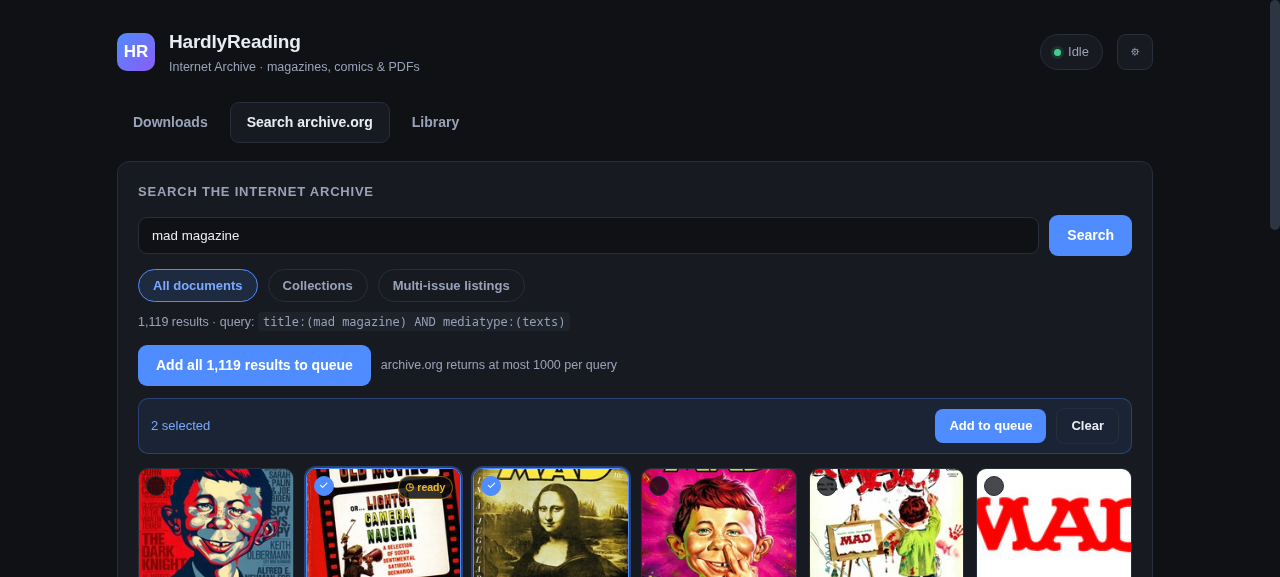
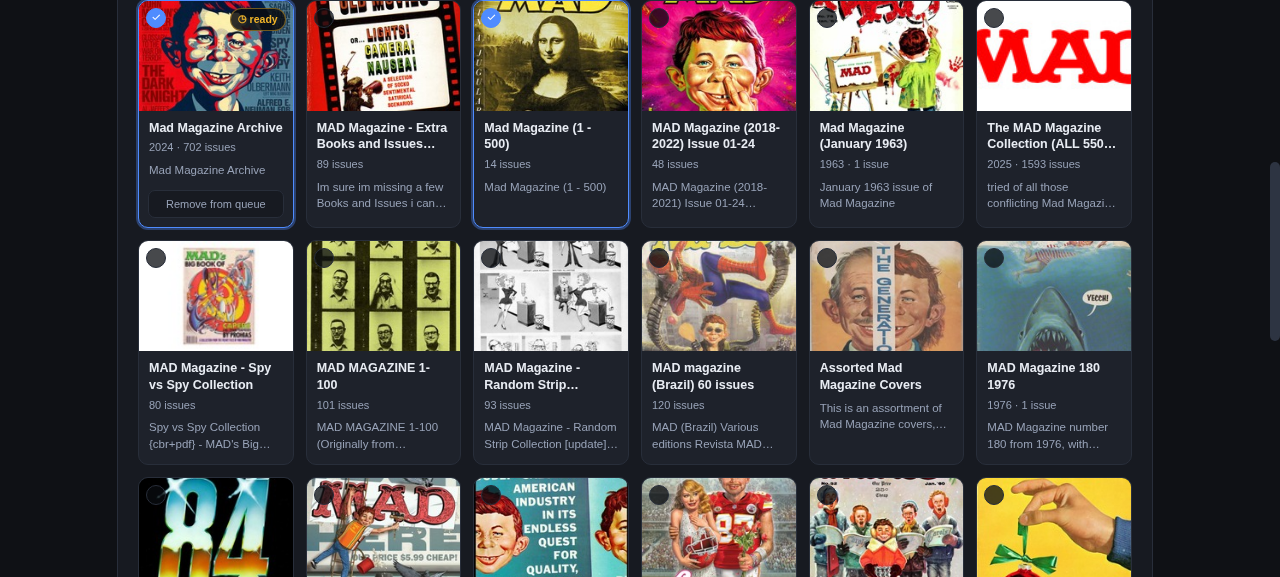
Readme covers paging and library rows; fresh screenshots (v2.0.0)

diff --git a/engine.py b/engine.py
@@ -125,7 +125,7 @@ def http_json(url: str, timeout: int = 60):
     """GET a URL and return parsed JSON. No retry here — callers that can
     recover (the resolver, the per-item probe) do their own attempts."""
 
-    req = urllib.request.Request(url, headers={"User-Agent": "HardlyReading/1.9.0"})
+    req = urllib.request.Request(url, headers={"User-Agent": "HardlyReading/2.0.0"})
     with urllib.request.urlopen(req, timeout=timeout) as r:
         return json.load(r)
 

diff --git a/server.py b/server.py
@@ -44,7 +44,7 @@ ENGINE = engine.Engine()
 
 
 class Handler(BaseHTTPRequestHandler):
-    server_version = "HardlyReading/1.9.0"
+    server_version = "HardlyReading/2.0.0"
 
     def log_message(self, fmt, *args):
         pass  # quiet

diff --git a/README.md b/README.md
@@ -174,7 +174,21 @@ What that does and does not buy you, plainly:
 - Install prompts need `https://` or `localhost`. On a plain-HTTP LAN address the
   page still works, it just will not offer to install.
 
-### The queue is a real queue: you control the order
+### The library also shows what you have not downloaded yet
+
+A title the queue knows about but which is not on disk still appears, marked
+`not downloaded`, with the action that moves it forward — **Download** for
+planned work, **Retry** for failed work — and a link to its page on archive.org
+where the built-in viewer can show it without downloading anything.
+
+Files caught mid-download are marked partial and refuse to open: a half-written
+archive is not a book. Rows with no file behind them cannot be selected for
+deletion, because there is nothing to delete.
+
+Library rows carry a real cover — page one, scaled to 96 px and cached — so the
+shelf looks like a shelf. PDFs get a placeholder rather than a rendered cover.
+
+## The queue is a real queue: you control the order
 
 Adding a link starts it straight away; when a job finishes the next one starts
 on its own, with a pause between jobs set by **Pause between jobs** in Settings
@@ -195,7 +209,23 @@ Library, tick the files you want gone, then **Delete** — it confirms with the
 list of filenames before touching disk. Press **Cancel** or **Done** to leave
 select mode without deleting anything.
 
-### The library reads the folder, not just the queue
+### Paging, covers and descriptions
+
+Every list pages at **10 / 25 / 50 / 100** per page, with prev/next and a
+jump-to-page list; the size you pick is remembered per tab. The queue and the
+library page locally, search pages on the server because a search can match tens
+of thousands of items.
+
+Search results carry the archive.org description, cut to two lines — click it to
+read the whole thing. That click expands the text rather than toggling the card,
+so you cannot lose a selection by trying to read it.
+
+Queue cards show the item's cover and expand on click to list the files inside
+the job. The list is fetched when you open the card, not with the 1.2 s poll, so
+a collection of 400 issues costs nothing until you ask for it. A card you opened
+stays open.
+
+## The library reads the folder, not just the queue
 
 The Library lists what is actually in your **download folder** — the one set in
 Settings, default `~/Documents/HardlyReading`, including its series subfolders.

diff --git a/CHANGELOG.md b/CHANGELOG.md
@@ -3,6 +3,24 @@
 Notable changes to HardlyReading. Versions are tagged on GitHub with matching
 release notes.
 
+## [2.0.0] — 2026-10-20
+
+### Added
+
+- **Covers.** Search results already had them; queue cards now show the item's
+  cover from archive.org, and library rows show page one of the file, scaled to
+  96 px by Pillow and cached under the config directory. A page of ten full-size
+  scans would be tens of megabytes; a cached thumbnail costs a few kB.
+- **Descriptions in search results**, clamped to two lines and expanded in place
+  on click — the click expands the text instead of toggling the selection.
+- **Expandable queue cards.** Clicking a card lists the files inside the job.
+  The list is fetched when you open it (`/api/job`), not with the 1.2 s poll, and
+  the card stays open across repaints.
+
+### Changed
+
+- Screenshots re-shot against the current UI.
+
 ## [1.9.0] — 2026-10-20
 
 ### Added
@@ -206,6 +224,7 @@ First release.
 - Built-in CBZ / CBR / PDF reader; CBR needs `unrar`, `bsdtar` or `7z`
 - Cross-platform launcher that finds `aria2c` and opens the browser
 
+[2.0.0]: https://github.com/hardlysleeping/HardlyReading/releases/tag/v2.0.0
 [1.9.0]: https://github.com/hardlysleeping/HardlyReading/releases/tag/v1.9.0
 [1.8.0]: https://github.com/hardlysleeping/HardlyReading/releases/tag/v1.8.0
 [1.7.0]: https://github.com/hardlysleeping/HardlyReading/releases/tag/v1.7.0
